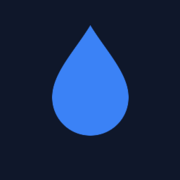
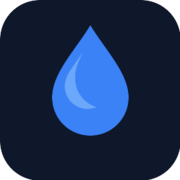
Rounded UI/mobile, square share: restore rounded background and highlight
- Favicon SVG: rounded background (rx=56) + glossy highlight restored
- Regenerated all favicon assets (PNG + ICO)
- Cache-bust to v=7 in index.html

Mobile/UI surfaces will show rounded icon; share sheets can still clip as needed.

diff --git a/client/public/index.html b/client/public/index.html
@@ -3,10 +3,10 @@
   <head>
     <meta charset="utf-8" />
     <!-- Favicons with aggressive cache busting -->
-    <link rel="icon" type="image/x-icon" href="%PUBLIC_URL%/favicon.ico?v=6" />
-    <link rel="icon" type="image/png" sizes="32x32" href="%PUBLIC_URL%/favicon-32x32.png?v=6" />
-    <link rel="icon" type="image/png" sizes="16x16" href="%PUBLIC_URL%/favicon-16x16.png?v=6" />
-    <link rel="icon" type="image/svg+xml" href="%PUBLIC_URL%/favicon.svg?v=6" />
+    <link rel="icon" type="image/x-icon" href="%PUBLIC_URL%/favicon.ico?v=7" />
+    <link rel="icon" type="image/png" sizes="32x32" href="%PUBLIC_URL%/favicon-32x32.png?v=7" />
+    <link rel="icon" type="image/png" sizes="16x16" href="%PUBLIC_URL%/favicon-16x16.png?v=7" />
+    <link rel="icon" type="image/svg+xml" href="%PUBLIC_URL%/favicon.svg?v=7" />
     <!-- Enhanced viewport meta tag for better mobile display -->
     <meta name="viewport" content="width=device-width, initial-scale=1.0, maximum-scale=1.0, viewport-fit=cover, user-scalable=no" />
     
